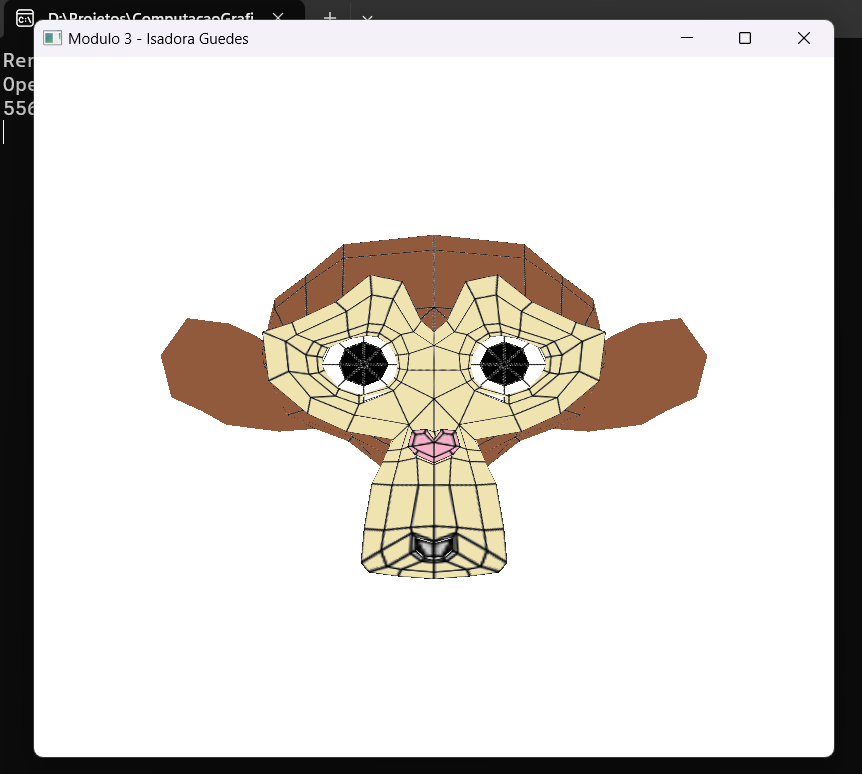
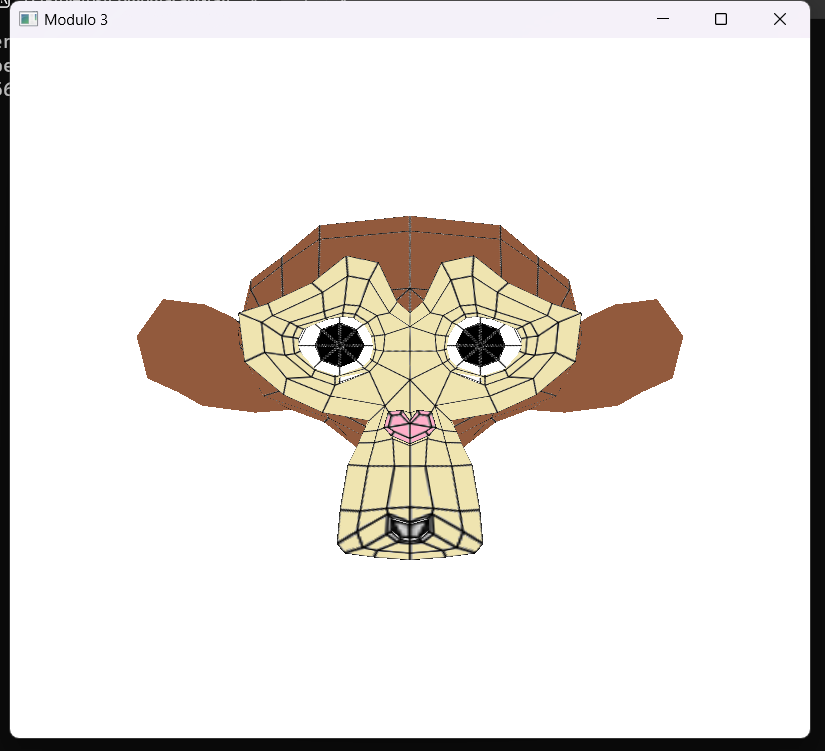
ajustes

Changed region(s): [[0.1515, 0.2756, 0.8485, 0.7656], [0.0, 0.0, 1.0, 1.0], [0.7879, 0.49, 0.8182, 0.5206]]

diff --git a/CGCCHibrido-main/CGCCHibrido-main/Modulo3/Modulo3/Origem.cpp b/CGCCHibrido-main/CGCCHibrido-main/Modulo3/Modulo3/Origem.cpp
@@ -283,7 +283,7 @@ int loadTexture(string path)
 void setupWindow(GLFWwindow*& window) {
 	glfwInit();
 
-	window = glfwCreateWindow(WINDOW_WIDTH, WINDOW_HEIGHT, "Modulo 3 - Isadora Guedes", nullptr, nullptr);
+	window = glfwCreateWindow(WINDOW_WIDTH, WINDOW_HEIGHT, "Modulo 3", nullptr, nullptr);
 	glfwMakeContextCurrent(window);
 
 	glfwSetKeyCallback(window, key_callback);
